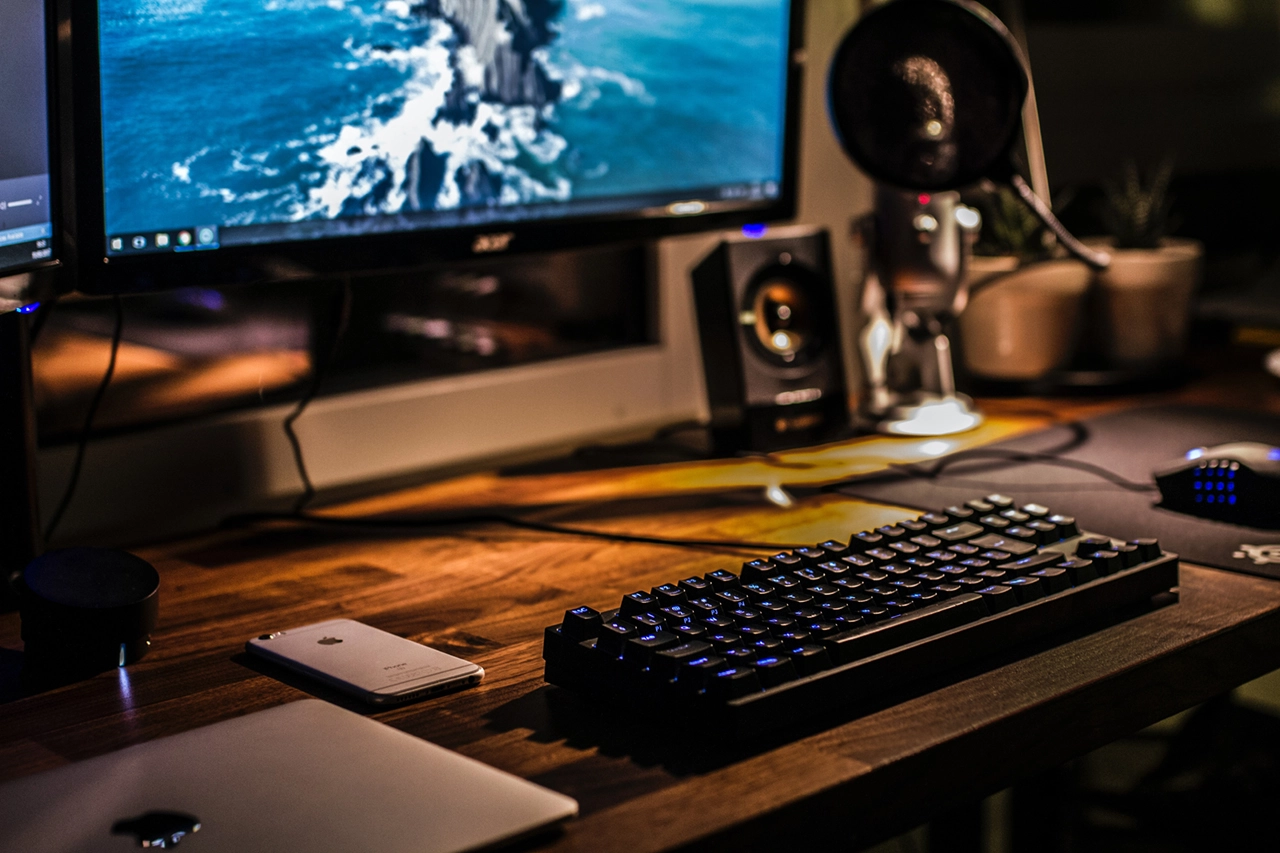
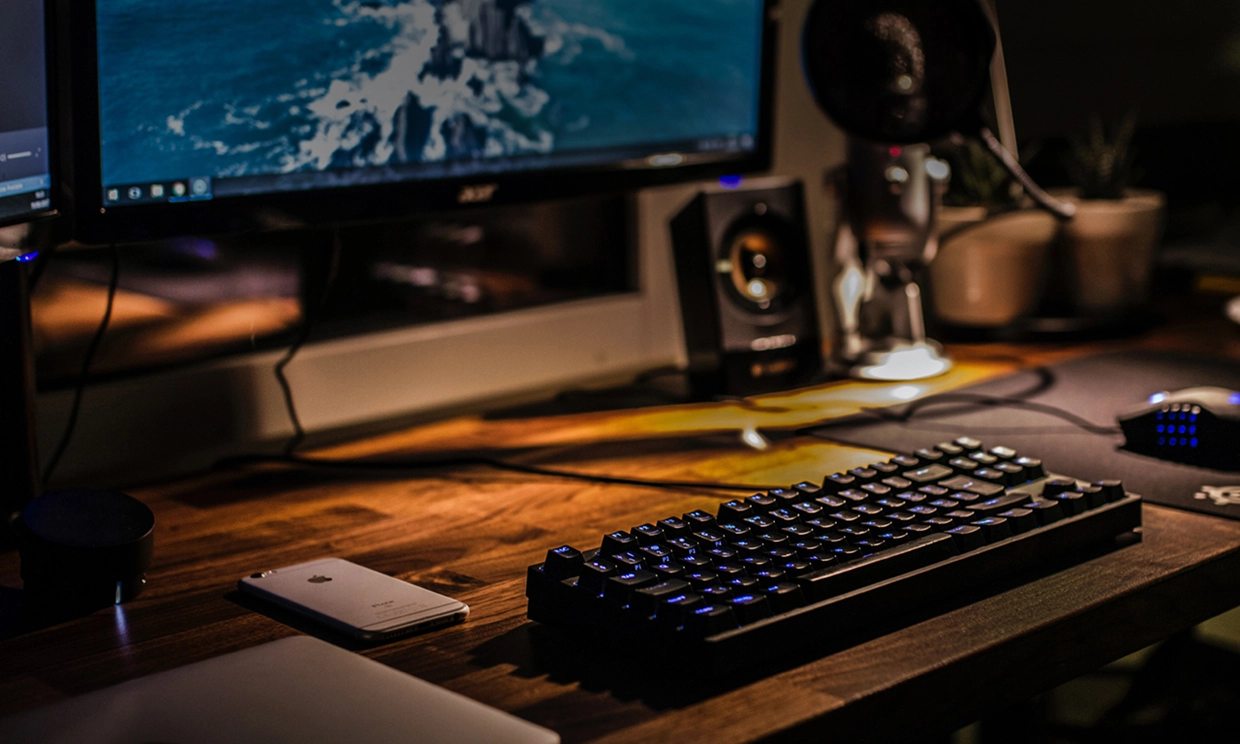
bg1 bg2 done

diff --git a/components/Navbar.js b/components/Navbar.js
@@ -108,8 +108,8 @@ export default function Navbar() {
       <div
         className={
           shadow
-            ? "w-full  lg:max-w-7xl fixed z-40 shadow-xl py-2 px-[13px] md:px-[47px] bg-white/70 dark:bg-slate-800/70 backdrop-blur md:py-2 "
-            : "w-full  lg:max-w-7xl fixed z-40 py-2 px-[13px] md:px-[47px] md:py-2 "
+            ? "w-full lg:max-w-7xl fixed z-40 shadow-xl py-2 md:py-0 px-[13px] md:px-[47px] bg-white/70 dark:bg-slate-800/70 backdrop-blur "
+            : "w-full lg:max-w-7xl fixed z-40 py-2 md:py-0 px-[13px] md:px-[47px]"
         }
       >
         <div className="flex flex-row justify-between items-center mx-auto">
@@ -219,22 +219,22 @@ export default function Navbar() {
 
           {/* Dekstop Version */}
           <div className="container hidden md:block">
-            <ul className="flex md:pt-0 md:flex-row md:justify-end md:space-y-0 lg:space-x-0 md:px-0">
+            <ul className="flex md:pt-0 md:px-0 md:flex-row md:justify-end md:space-y-0 lg:space-x-0 ">
               {menus.map((menu, index) => (
                 <li className="md:uppercase" key={index}>
                   <Link href={menu.href}>
                     <div
-                      className={`text-2xl md:text-sm cursor-pointer ${
+                      className={`md:text-base font-bold cursor-pointer ${
                         router.asPath === menu.href
-                          ? "text-primary  "
+                          ? "text-primary"
                           : "text-secondary dark:text-light "
                       }`}
                     >
-                      <div className="md:relative group md:text-center flex flex-row ">
-                        <p className="px-6 md:group-hover:invisible">
+                      <div className="md:relative group md:text-center flex flex-row px-6">
+                        <p className="px-4 p-1 md:group-hover:invisible">
                           <menu.icn />
                         </p>
-                        <p className="md:absolute inset-x-0 text-center md:pt-1 md:invisible group-hover:visible  group-hover:text-primary dark:group-hover:text-light">
+                        <p className="md:absolute inset-x-0 text-center md:pt-1 md:invisible group-hover:visible  group-hover:text-secondary dark:group-hover:text-light">
                           {menu.text}
                         </p>
                       </div>

diff --git a/pages/main.js b/pages/main.js
@@ -36,10 +36,10 @@ const icons = [
 
 export default function Main() {
   return (
-    <div className="w-full mx-auto ">
+    <div className="w-full mx-auto md:mt-[-48px] ">
       <div className="relative flex w-full lg:max-w-7xl justify-center items-center min-h-screen ">
-        <div className="absolute z-0 bg-bg1 dark:bg-bg2 bg-fixed bg-center bg-cover bg-no-repeat left-0 right-0 top-0 bottom-0" />
-        <div className="absolute z-10 bg-gradient-to-t from-slate-100 dark:bg-gradient-to-t dark:from-slate-800 left-0 right-0 top-0 bottom-0" />
+        <div className="absolute z-0 bg-bg1 dark:bg-bg2 bg-fixed bg-center bg-cover bg-no-repeat left-[-48px] right-[-48px] top-0 bottom-0" />
+        <div className="absolute z-10 bg-gradient-to-t from-slate-100 dark:bg-gradient-to-t dark:from-slate-800 left-[-48px] right-[-48px] top-0 bottom-0" />
         <div className="px-5 z-20">
           <p
             className="uppercase text-sm tracking-widest text-gray-800 dark:text-light"
